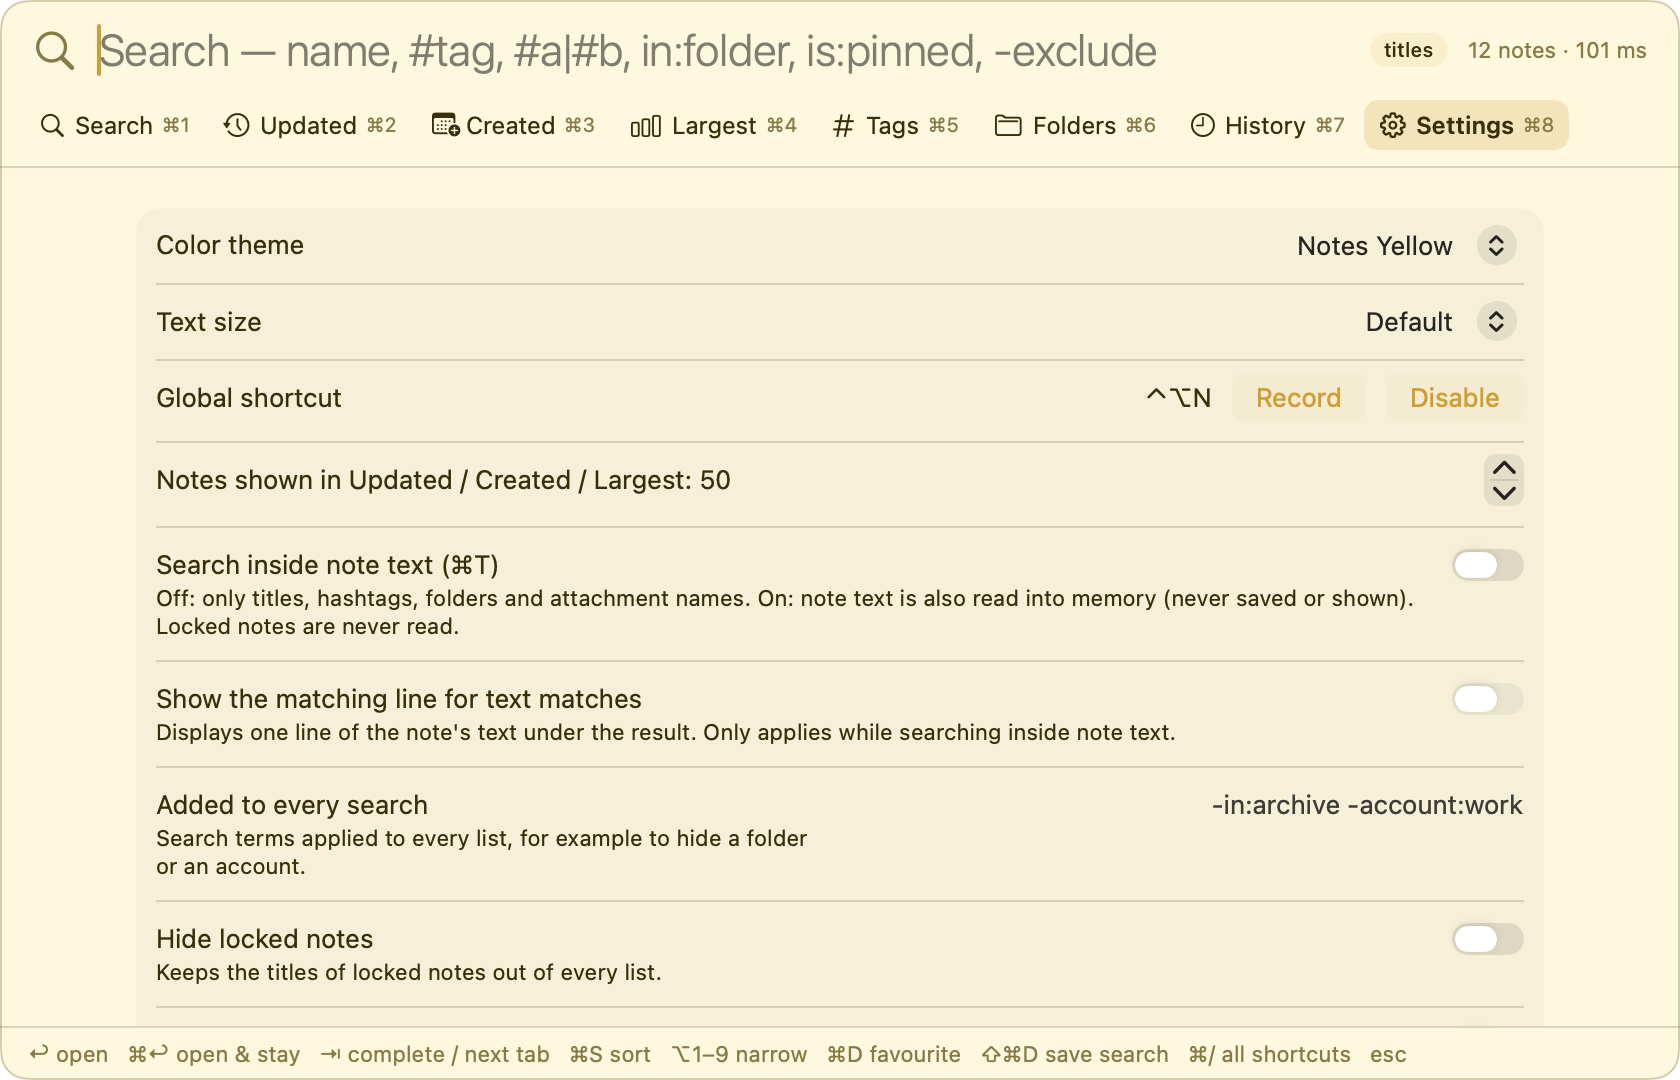
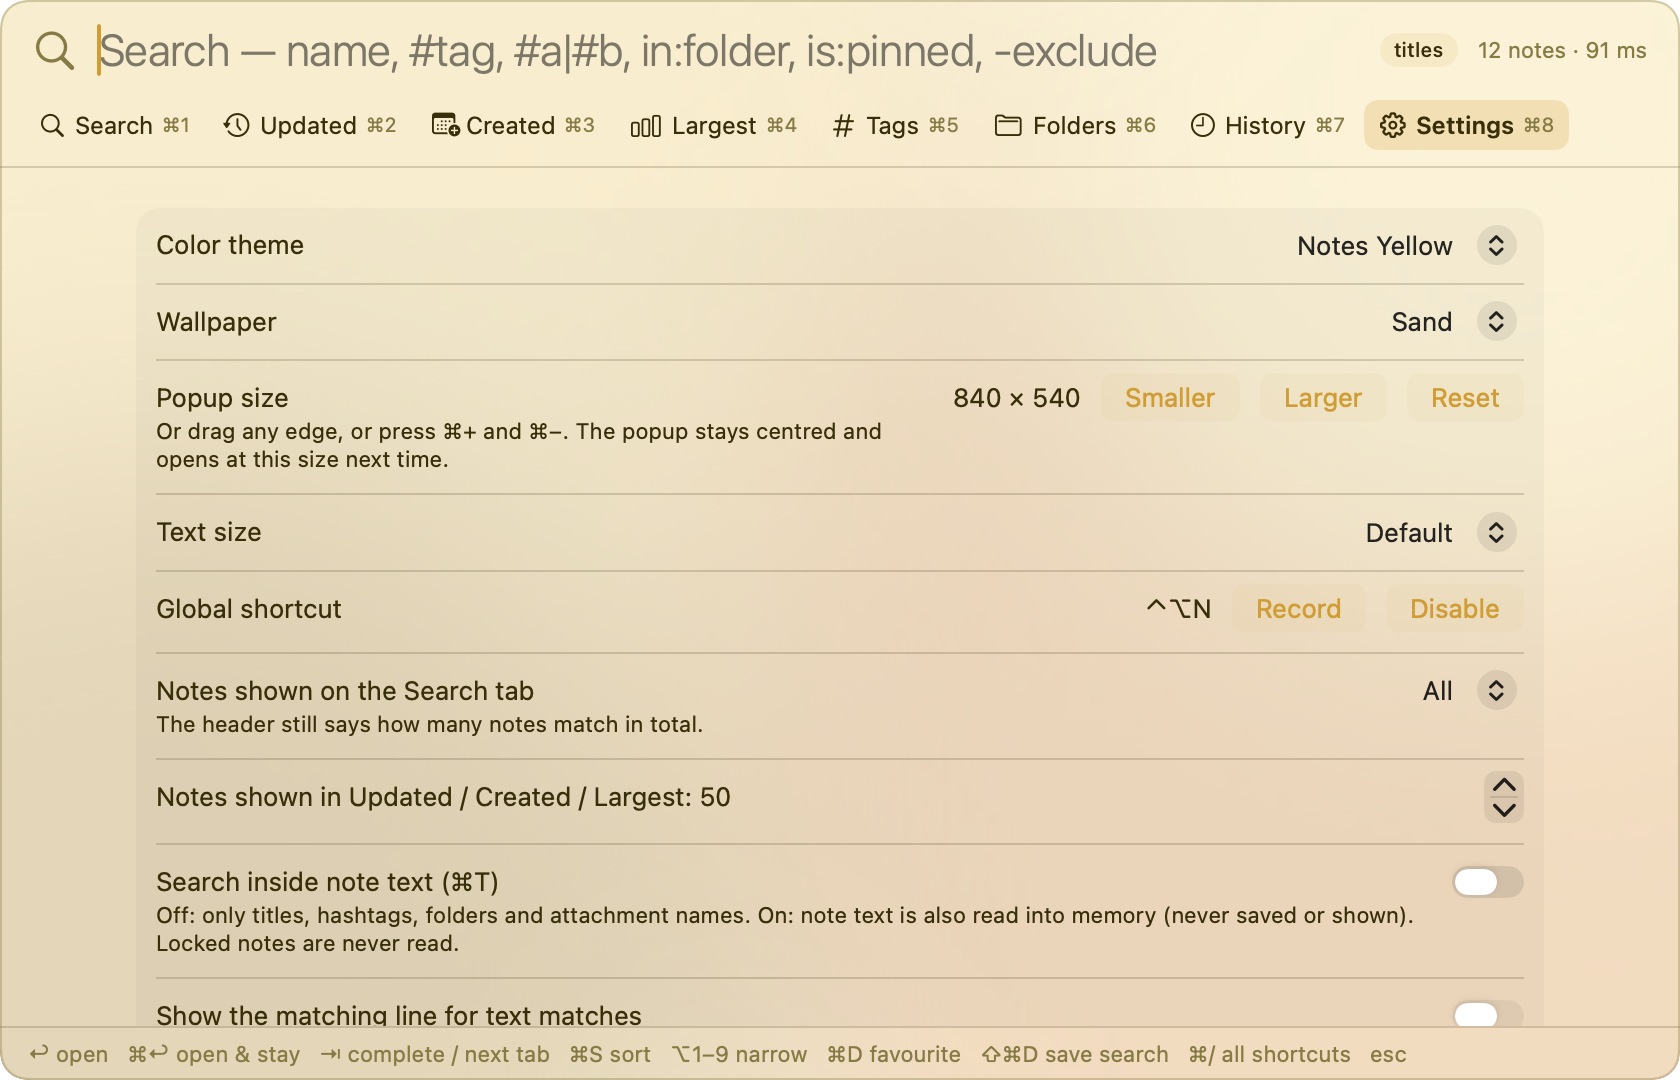
Document 1.9: wallpapers, popup size, Search-tab limit

diff --git a/docs/tabs-and-settings.md b/docs/tabs-and-settings.md
@@ -77,8 +77,11 @@ one.
 | Setting | What it does | Default |
 | --- | --- | --- |
 | **Color theme** | System (follows light/dark mode), Light, Dark, Notes Yellow, Solarized Light, Midnight, Nord, Dracula, Solarized Dark | System |
+| **Wallpaper** | None, or one of six soft blurred backgrounds: Aurora, Sunset, Ocean, Forest, Lavender, Sand. See [Wallpapers](#wallpapers-19) *(1.9+)* | None |
+| **Popup size** | **Smaller**, **Larger** and **Reset** change the popup's size. See [Popup size](#popup-size-17) *(1.9+)* | 840 × 540 |
 | **Text size** | Small, Default, Large or Extra large, for the lists and tabs in the popup *(1.7+)* | Default |
 | **Global shortcut** | Click **Record**, then press the combination you want. It must include Control, Option or Command. Esc cancels. **Disable** turns the shortcut off | ⌃⌥N |
+| **Notes shown on the Search tab** | All, or the first 10, 25, 50, 100 or 250 matches. When the list is cut, the header says so, for example "first 25 of 140 matches" *(1.9+)* | All |
 | **Notes shown in Updated / Created / Largest** | How many notes those tabs list, from 5 to 500 | 50 |
 | **Search inside note text** | Also match plain words against the text of your notes. See [Privacy](privacy.md) *(1.3+)* | Off |
 | **Show the matching line for text matches** | While searching inside note text, shows the one line that matched under each result *(1.4+)* | Off |
@@ -97,7 +100,26 @@ one.
 
 ![Shortcut list](images/shortcuts.png)
 
-**Popup size** *(1.7+)*: drag any edge of the popup to resize it. The size is remembered.
+### Popup size *(1.7+)*
+
+Drag any edge of the popup to resize it. From version 1.9 you can also press **⌘+** and **⌘−**, or use
+**Smaller** / **Larger** in Settings; **⌘0** or **Reset** returns to the default size. After a resize the popup
+moves back to the centre of the screen (unless **Open the popup where I left it** is on), and it opens at the
+size you chose next time. It cannot be made larger than the screen or smaller than 640 × 360.
+
+### Wallpapers *(1.9+)*
+
+Choose a **Wallpaper** in Settings to give the popup a soft, blurred colour background. None is selected by
+default. The wallpapers are drawn by NoteSearch itself: nothing is downloaded. Your colour theme is laid over the
+wallpaper, so text stays readable in every light and dark theme.
+
+![Aurora wallpaper with the Light theme](images/wallpaper-aurora.png)
+
+*Aurora with the Light theme.*
+
+![Sunset wallpaper with the Midnight theme](images/wallpaper-sunset.png)
+
+*Sunset with the Midnight theme.*
 
 **Updating** *(1.7+)*: when a newer version exists, a notice appears above the results. **Download and open** saves
 the new disk image to your Downloads folder and opens it; drag NoteSearch to Applications as usual.

diff --git a/README.md b/README.md
@@ -33,10 +33,11 @@ Step-by-step instructions with pictures are in [Getting started](docs/getting-st
   one-click update download *(1.7+)*.
 - **Sort, Show and Narrow buttons** above the results, a **Folders tab**, and a list of every shortcut on
   ⌘/ *(1.8+)*.
+- **Six optional wallpapers** and a popup you can resize from the keyboard *(1.9+)*.
 - **Private**: by default only titles and metadata are read. Note text is read only if you turn that on, is kept
   in memory only, and is never saved, and is shown only if you ask for the matching line. The only network use is an optional daily
   check for a newer version, which sends nothing about you or your notes.
-- **Nine colour themes** and a handful of useful options.
+- **Nine colour themes**, six optional wallpapers, and a handful of useful options.
 
 ## Screenshots
 
@@ -48,7 +49,7 @@ Step-by-step instructions with pictures are in [Getting started](docs/getting-st
 | ![Search inside note text](docs/images/text.png) <br> Searching inside note text, when turned on | ![Selecting several hashtags](docs/images/tags-multi.png) <br> Ticking several hashtags shows how many notes have all or any |
 | ![Notes changed in the last week](docs/images/dates.png) <br> Date filter: `updated:7d` | ![The matching line of text](docs/images/snippet.png) <br> Optional: the line of text that matched |
 | ![Search history](docs/images/history.png) <br> History of past searches | ![Tags tab](docs/images/tags.png) <br> Every hashtag with its note count (Midnight theme) |
-| ![Settings](docs/images/settings.png) <br> Settings (Notes Yellow theme) | ![Sort, Show and Narrow buttons](docs/images/buttons.png) <br> One-click sorting, filters and narrowing |
+| ![Settings](docs/images/settings.png) <br> Settings (Notes Yellow theme, Sand wallpaper) | ![Sort, Show and Narrow buttons](docs/images/buttons.png) <br> One-click sorting, filters and narrowing |
 
 ## Documentation
 

diff --git a/docs/keyboard-shortcuts.md b/docs/keyboard-shortcuts.md
@@ -21,6 +21,8 @@
 | **⌘T** | Switch between matching titles only and titles plus note text *(1.3+)* |
 | **⌘S** | Change the sort order: best match, last updated, newest, largest, A–Z *(1.4+; A–Z from 1.8)* |
 | **⌥1 … ⌥9** | Apply the first to ninth **Narrow** button above the results *(1.8+)* |
+| **⌘+ / ⌘−** | Make the popup larger / smaller. It stays centred and remembers the size *(1.9+)* |
+| **⌘0** | Return the popup to its default size *(1.9+)* |
 | **⌘/** | Show or hide the list of all shortcuts *(1.8+)* |
 | **⌘D** | Star or unstar the selected note as a favourite *(1.4+)* |
 | **⇧⌘D** | Save the search you are typing. It appears starred at the top of the History tab *(1.7+)* |
